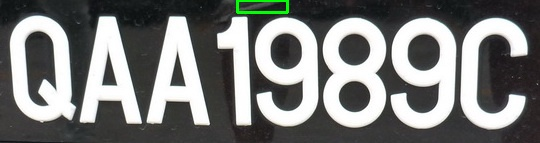
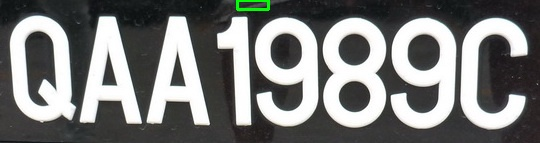
v1v2, both lack accuracy

Changed region(s): [[0.4148, 0.0, 0.563, 0.1119]]

diff --git a/ANPR_proj/v1-plate-detect.py b/ANPR_proj/v1-plate-detect.py
@@ -1,0 +1,139 @@
+import cv2
+import numpy as np
+import os
+import pytesseract
+import re
+
+
+script_dir = os.path.dirname(os.path.abspath(__file__))
+
+image_list = ["car1.jpg", "car2.jpg", "car3.jpg", "car4.jpg"]
+
+for image_name in image_list:
+
+    image_path = os.path.join(script_dir, image_name)
+    image = cv2.imread(image_path)
+    
+
+    if image is None:
+        print(image_name, "not found")
+        continue
+
+    print("\nProcessing:", image_name)
+
+    gray = cv2.cvtColor(image, cv2.COLOR_BGR2GRAY)
+
+    blur = cv2.bilateralFilter(gray, 11, 17, 17)
+
+    edges = cv2.Canny(blur, 30, 200)
+
+    contours, _ = cv2.findContours(
+        edges.copy(),
+        cv2.RETR_TREE,
+        cv2.CHAIN_APPROX_SIMPLE
+    )
+
+    plate_crop = None
+    best_box = None
+    best_ratio_score = float('inf')
+
+
+    for cnt in contours:
+
+        approx = cv2.approxPolyDP(
+            cnt,
+            0.02 * cv2.arcLength(cnt, True),
+            True
+        )
+
+        if len(approx) == 4:
+
+            x, y, w, h = cv2.boundingRect(cnt)
+
+            aspect_ratio = w / float(h)
+
+            if 2 < aspect_ratio < 6:
+
+                ratio_score = abs(4 - aspect_ratio)
+
+                if ratio_score < best_ratio_score or best_box is None:
+                    best_ratio_score = ratio_score
+                    best_box = (x, y, w, h)
+
+
+    if best_box is not None:
+
+        x, y, w, h = best_box
+
+        plates = [(x, y, w, h)]
+        for (x, y, w, h) in plates:
+            cv2.rectangle(image, (x, y), (x+w, y+h), (0, 255, 0), 2)
+
+        plate_crop = image[y:y+h, x:x+w]
+
+        # task 4 - annotation output
+        os.makedirs(os.path.join(script_dir, "output"), exist_ok=True)
+
+        cv2.imwrite(
+            os.path.join(script_dir, f"output/detected_{image_name}"),
+            image
+        )
+
+        # task 3 - OCR output
+        plate_gray = cv2.cvtColor(plate_crop, cv2.COLOR_BGR2GRAY)
+
+        # improve contrast first
+        plate_gray = cv2.convertScaleAbs(plate_gray, alpha=1.5, beta=0)
+
+        #denoise
+        plate_gray = cv2.GaussianBlur(plate_gray, (3,3), 0)
+
+        # threshold
+        plate_gray = cv2.threshold(
+            plate_gray, 0, 255,
+            cv2.THRESH_BINARY + cv2.THRESH_OTSU
+        )[1]
+
+        plate_text = pytesseract.image_to_string(
+            plate_gray,
+            config="--psm 7"
+        )
+
+        text = plate_text.replace(" ", "").strip()
+
+        print("OCR RESULT:", text)
+
+        # task 7 - validation
+        def validate_plate(text):
+            pattern = r"^[A-Z]{1,3}[0-9]{1,4}[A-Z]?$"
+            if re.match(pattern, text):
+                return "VALID"
+            else:
+                return "INVALID"
+
+        print("VALIDATION:", validate_plate(text))
+
+    else:
+        print("No plate detected in", image_name)
+
+    cv2.imshow("ANPR Detection", image)
+
+    if plate_crop is not None:
+        cv2.imshow("Plate Crop", plate_crop)
+
+
+# TASK 5 - real time camera system
+cap = cv2.VideoCapture(0)
+while True:
+    ret, frame = cap.read()
+    if not ret:
+        break
+    cv2.imshow("LIVE ANPR", frame)
+
+    if cv2.waitKey(1) & 0xFF == ord('q'):
+        break
+
+cap.release()
+
+cv2.waitKey(0)
+cv2.destroyAllWindows()

diff --git a/ANPR_proj/v2-plate-detect.py b/ANPR_proj/v2-plate-detect.py
@@ -1,0 +1,106 @@
+import cv2
+import numpy as np
+import os
+import pytesseract
+import re
+from ultralytics import YOLO
+
+script_dir = os.path.dirname(os.path.abspath(__file__))
+
+image_list = ["car1.jpg", "car2.jpg", "car3.jpg", "car4.jpg", "car5.jpg"]
+model = YOLO(os.path.join(script_dir, "license_plate_detector.pt"))
+
+def validate_plate(text):
+    pattern = r"^[A-Z0-9]{4,8}$"
+    return "VALID" if re.match(pattern, text) else "INVALID"
+
+
+for image_name in image_list:
+
+    image_path = os.path.join(script_dir, image_name)
+    image = cv2.imread(image_path)
+
+    if image is None:
+        print(image_name, "not found")
+        continue
+
+    image = cv2.resize(image, None, fx=1.5, fy=1.5)
+
+    print("\nProcessing:", image_name)
+
+    results = model(image, conf=0.10, iou=0.4)
+
+    best_box = None
+    best_conf = 0
+
+    for r in results:
+        for box in r.boxes:
+
+            conf = float(box.conf[0])
+
+            if conf > best_conf:
+                best_conf = conf
+                x1, y1, x2, y2 = map(int, box.xyxy[0])
+                best_box = (x1, y1, x2, y2)
+
+    plate_crop = None
+
+    if best_box is not None:
+
+        x1, y1, x2, y2 = best_box
+
+        cv2.rectangle(image, (x1, y1), (x2, y2), (0, 255, 0), 2)
+
+        plate_crop = image[y1:y2, x1:x2]
+
+        gray = cv2.cvtColor(plate_crop, cv2.COLOR_BGR2GRAY)
+        gray = cv2.convertScaleAbs(gray, alpha=1.3, beta=0)
+
+        _, gray = cv2.threshold(
+            gray, 0, 255,
+            cv2.THRESH_BINARY + cv2.THRESH_OTSU
+        )
+
+        plate_text = pytesseract.image_to_string(
+            gray,
+            config="--psm 7 -c tessedit_char_whitelist=ABCDEFGHIJKLMNOPQRSTUVWXYZ0123456789"
+        )
+
+        text = plate_text.replace(" ", "").strip().upper()
+
+        print("OCR RESULT:", text)
+        print("VALIDATION:", validate_plate(text))
+
+    else:
+        print("No plate detected in", image_name)
+
+    cv2.imshow("ANPR Detection", image)
+
+    if plate_crop is not None:
+        cv2.imshow("Plate Crop", plate_crop)
+
+
+# LIVE CAMERA
+cap = cv2.VideoCapture(0)
+
+while True:
+    ret, frame = cap.read()
+    if not ret:
+        break
+
+    results = model(frame, conf=0.10, iou=0.4)
+
+    for r in results:
+        for box in r.boxes:
+
+            x1, y1, x2, y2 = map(int, box.xyxy[0])
+
+            cv2.rectangle(frame, (x1, y1), (x2, y2), (0, 255, 0), 2)
+
+    cv2.imshow("LIVE ANPR", frame)
+
+    if cv2.waitKey(1) & 0xFF == ord('q'):
+        break
+
+cap.release()
+cv2.destroyAllWindows()